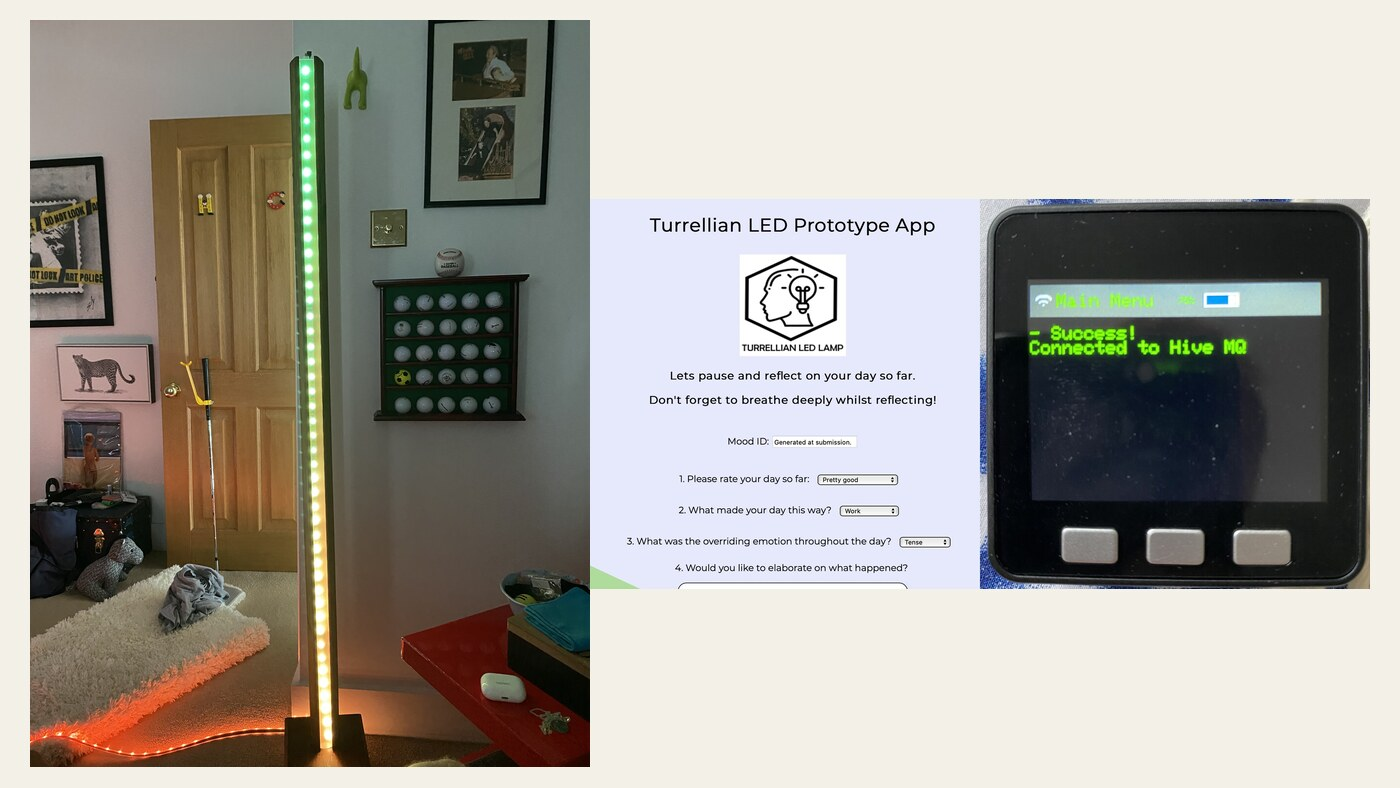
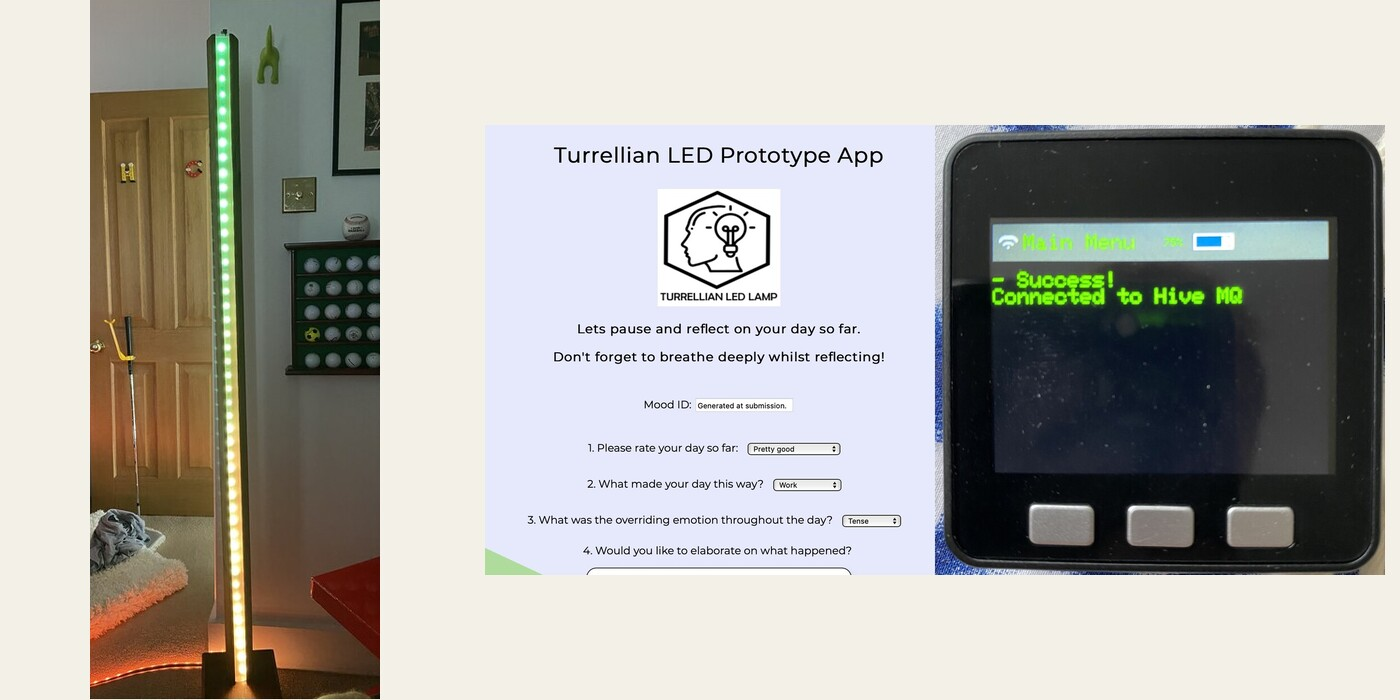
Included Turrellian Lamp project

diff --git a/html/portfolio/turrellian-led-lamp.html b/html/portfolio/turrellian-led-lamp.html
@@ -3,7 +3,7 @@
   <head>
     <meta charset="UTF-8" />
     <meta name="viewport" content="width=device-width, initial-scale=1" />
-    <meta name="description" content="Turrellian LED Lamp — Humphrey Curtis's 2020 University of Bristol MSc project in affective computing, connected lighting and physical prototyping." />
+    <meta name="description" content="The Turrellian LED Lamp — Humphrey Curtis's 2020 MSc thesis exploring how self-reported mood, heart rate, HRV and skin temperature could orient ambient light." />
     <title>Turrellian LED Lamp — Humphrey Curtis</title>
     <link rel="stylesheet" href="../../css/style.css" />
     <link rel="icon" type="image/x-icon" href="../../images/favicon.ico" />
@@ -22,8 +22,8 @@
 
       <div class="portfolio-header">
         <img
-          src="../../images/turrellian/hero-lamp-and-interface.jpg"
-          alt="The full-height wooden Turrellian LED lamp beside its mood interface and M5Stack controller"
+          src="../../images/turrellian/interface-and-controller.jpg"
+          alt="The Turrellian reflective mood app beside its connected M5Stack microcontroller"
           class="portfolio-hero"
         />
 
@@ -42,44 +42,72 @@
           </div>
           <div class="project-meta-item">
             <span class="sidebar-label">Methods</span>
-            <span class="sidebar-value">Physical prototyping · Affective computing · Pilot evaluation</span>
+            <span class="sidebar-value">Affective computing · Biosensing · Physical prototyping · Pilot evaluation</span>
           </div>
           <div class="project-meta-item">
             <span class="sidebar-label">Technology</span>
-            <span class="sidebar-value">M5Stack ESP32 · WS2811 LEDs · MQTT · JavaScript</span>
+            <span class="sidebar-value">C++/Arduino · JavaScript · Processing/Java · MQTT/JSON</span>
+          </div>
+          <div class="project-meta-item">
+            <span class="sidebar-label">Hardware</span>
+            <span class="sidebar-value">M5Stack/M5StickC · PulseSensor · MLX90614 · WS2811 LEDs</span>
           </div>
         </div>
       </div>
 
-      <div class="project-actions" aria-label="Turrellian LED Lamp links">
-        <a href="https://github.com/HumphreyCurtis/Turrellian-LED-lamp" target="_blank" rel="noopener">Code</a>
-        <a href="../../resources/turrellian-led-lamp-msc-thesis.pdf" target="_blank" rel="noopener">Read thesis</a>
+      <div class="project-actions" aria-label="Turrellian links">
+        <a href="https://github.com/HumphreyCurtis/Turrellian-LED-Lamp" target="_blank" rel="noopener">Code</a>
+        <a href="../../resources/turrellian-led-lamp-msc-thesis.pdf" class="thesis-link" target="_blank" rel="noopener">Read thesis</a>
       </div>
 
-      <p><strong>Turrellian</strong> was my 2020 MSc Computer Science project at the University of Bristol: a hand-built, networked floor lamp that translated reflective mood input into programmable colour sequences. Inspired by James Turrell's immersive light installations, it explored whether ambient light could become an affective interface rather than another manually controlled smart device.</p>
+      <p><strong>The Turrellian LED Lamp</strong> was my 2020 MSc Computer Science thesis at the University of Bristol: a 6.5-foot affect-sensitive system designed to orient ambient light using both self-reported mood and physiological feedback. A reflective journal captured the person's current and desired state, while prototypes sensed heart rate, heart-rate variability (HRV) and skin temperature. Inspired by James Turrell's installations, the lamp translated the target state into an immersive colour sequence.</p>
 
-      <section class="case-study-section">
-        <h3>From sketch to connected light</h3>
+      <section class="case-study-section case-study-section-first">
+        <h3>Designing the lamp</h3>
 
-        <p>The physical prototype began as a 1.5–2 metre corner lamp designed to wash two walls with colour. A timber body housed addressable LEDs, while the surrounding room became part of the display.</p>
+        <p>The tall timber column was designed for a corner, turning two walls into a light surface while taking up little floor space. Six activating or calming sequences mapped colour, saturation and movement to valence and arousal, drawing on the circumplex model of affect and colour-psychology research.</p>
 
         <figure class="portfolio-figure figure-constrained">
           <img src="../../images/turrellian/prototype-sketches.jpg" alt="Hand-drawn plans for the tall wooden Turrellian lamp, its corner placement and internal addressable LED strip" loading="lazy" />
           <figcaption>Early construction sketches: a corner-mounted light column designed to project colour into the room</figcaption>
         </figure>
 
-        <p>A browser-based journal captured a person's current and desired mood, then sent a small JSON message over MQTT. An M5Stack ESP32 received it and selected one of two programmed lighting behaviours: activating sequences for focused, excited or happy states; slower sequences for contented, serene or relaxed states.</p>
-
         <figure class="portfolio-figure figure-constrained">
-          <img src="../../images/turrellian/interface-and-controller.jpg" alt="Turrellian reflective mood web interface beside the connected M5Stack ESP32 controller" loading="lazy" />
-          <figcaption>The reflective web journal and embedded controller—the two ends of the MQTT prototype</figcaption>
+          <img src="../../images/turrellian/hero-lamp-and-interface.jpg" alt="The working Turrellian LED Lamp in a room beside its reflective mood interface and M5Stack controller" loading="lazy" />
+          <figcaption>The working prototype, reflective journal and embedded controller</figcaption>
         </figure>
       </section>
 
       <section class="case-study-section">
-        <h3>Bottom line</h3>
+        <h3>How the system worked</h3>
 
-        <p>The evaluation was necessarily exploratory, particularly during the disruption of 2020, and the lamp should not be read as a clinical intervention. Its value was as an end-to-end affective-computing prototype: combining interaction design, connected software, embedded programming and physical fabrication in one working system.</p>
+        <p>Turrellian combined two input streams. The browser journal recorded the person's current mood, context and intended emotional direction. A PulseSensor Amped connected to an M5Stack measured heart rate and HRV; an MLX90614 infrared sensor on an M5StickC measured skin temperature. Together, self-report and biosignals described the starting state and provided feedback on whether the light moved the person towards the desired valence–arousal region.</p>
+
+        <p>The journal and Mood Room interface were written in HTML, CSS and JavaScript. Browser and ESP32 devices published JSON through a HiveMQ MQTT broker. C++/Arduino firmware parsed the target state with ArduinoJson and PubSubClient, then used FastLED to drive one of six sequences across two WS2811 RGB strips. Processing/Java handled HRV visualisation, including Poincaré plots.</p>
+
+        <p>The working prototype was semi-automated: the person still selected the state they wanted to reach, while sensors supplied affective context and feedback. Continuous mood inference and machine learning were proposed as future work rather than presented as features of the system.</p>
+
+        <figure class="portfolio-figure figure-constrained">
+          <img src="../../images/turrellian/system-architecture.jpg" alt="System architecture connecting heart-rate and temperature sensors, a browser journal, MQTT, an ESP32 controller and the Turrellian LED Lamp" loading="lazy" />
+          <figcaption>The end-to-end architecture: biosensing and self-report connected to the lamp through MQTT</figcaption>
+        </figure>
+      </section>
+
+      <section class="case-study-section">
+        <h3>Pilot evaluation</h3>
+
+        <p>Six participants used the lamp and a Philips Hue smart bulb in a pandemic-constrained workplace study. Five-minute pre/post readings tracked heart rate, HRV and skin temperature. Four participants reported improved mood, while the thesis interpreted five participants' physiological readings as movement towards the requested state. Turrellian scored higher across all four AttrakDiff measures, most clearly for stimulation.</p>
+
+        <figure class="portfolio-figure figure-constrained">
+          <img src="../../images/turrellian/evaluation-results.png" alt="AttrakDiff results showing Turrellian rated above Philips Hue for pragmatic quality, identity, stimulation and attractiveness" loading="lazy" />
+          <figcaption>AttrakDiff comparison from the six-person pilot; the strongest difference was stimulation</figcaption>
+        </figure>
+      </section>
+
+      <section class="case-study-section">
+        <h3>Key findings</h3>
+
+        <p>The pilot suggested that personalised ambient light could support a desired mood, but the sample was too small and the recordings too brief for a general claim. The stronger contribution was the end-to-end architecture: it showed how subjective feedback and bodily signals could be combined to orient environmental light, joining interaction design, biosensing, connected software, embedded programming and physical fabrication.</p>
       </section>
     </main>
 

diff --git a/html/portfolio.html b/html/portfolio.html
@@ -81,11 +81,11 @@
         <li class="pub-entry">
           <a href="./portfolio/turrellian-led-lamp.html" class="pub-card-link">
             <div class="pub-media">
-              <img src="../images/turrellian/hero-lamp-and-interface.jpg" alt="The full-height wooden Turrellian LED lamp beside its mood interface and controller" loading="lazy" />
+              <img src="../images/turrellian/interface-and-controller.jpg" alt="The Turrellian reflective mood app beside its connected M5Stack microcontroller" loading="lazy" />
             </div>
             <div class="pub-info">
               <span class="pub-title">Turrellian LED Lamp</span>
-              <div class="pub-meta">Affective computing · Physical prototyping · IoT · Embedded systems</div>
+              <div class="pub-meta">Affective computing · Biosensing · Embedded systems · Immersive light</div>
               <div class="pub-date">2020</div>
               <div class="portfolio-cta">View project →</div>
             </div>

diff --git a/html/research.html b/html/research.html
@@ -414,7 +414,7 @@
             </details>
               <div class="pub-links">
               <a href="https://doi.org/10.1145/3597638.3608379" target="_blank" rel="noopener">Paper</a>
-              <a href="https://github.com/HumphreyCurtis/Watch-Your-Language-AAC" target="_blank" rel="noopener">App code</a>
+              <a href="https://github.com/HumphreyCurtis/Watch-Your-Language-AAC" target="_blank" rel="noopener">Code</a>
               <button type="button" class="bibtex-copy" data-bibtex="../resources/bibtex/watch-your-language-2023.bib">BibTeX</button>
             </div>
             </div>

diff --git a/css/style.css b/css/style.css
@@ -455,6 +455,10 @@ figcaption {
   --action-icon: var(--icon-slides);
 }
 
+.project-actions a.thesis-link {
+  --action-icon: var(--icon-document);
+}
+
 .pub-links .bibtex-copy {
   --action-icon: var(--icon-bibtex);
   appearance: none;
@@ -719,6 +723,10 @@ figcaption {
 
 .case-study-section {
   margin-top: 52px;
+}
+
+.case-study-section-first {
+  margin-top: 36px;
 }
 
 .live-toolkit-section h3,
